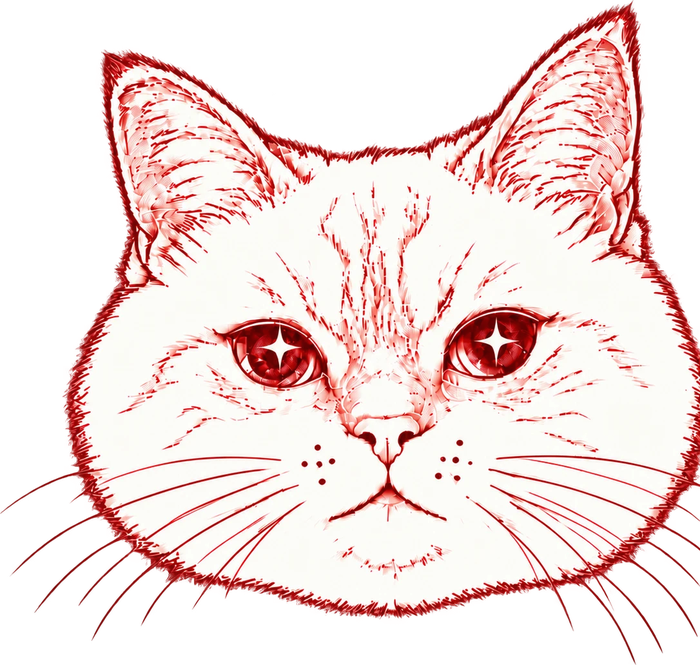
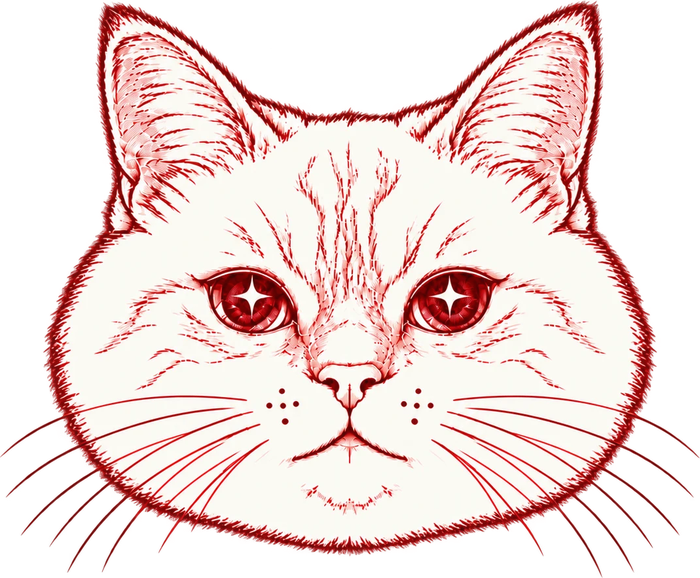
feat: replace white cat art; all decorations share one size

diff --git a/js/screen.js b/js/screen.js
@@ -153,7 +153,7 @@ async function fxIn(back) {
 }
 
 /* ---------- 隨機插圖裝飾：只放在空白紙面，不碰畫框、布幕、名字、QR code ---------- */
-const DECOS = [{ src: 'deco/bow.png', ratio: 700 / 530 }, { src: 'deco/cat.png', ratio: 700 / 665 }, { src: 'deco/cat2.png', ratio: 666 / 700 }];
+const DECOS = [{ src: 'deco/bow.png', ratio: 700 / 530 }, { src: 'deco/cat.png', ratio: 700 / 578 }, { src: 'deco/cat2.png', ratio: 666 / 700 }];
 const rand = (a, b) => a + Math.random() * (b - a);
 const grow = (r, g) => ({ left: r.left - g, right: r.right + g, top: r.top - g, bottom: r.bottom + g });
 const hits = (a, b) => a.left < b.right && a.right > b.left && a.top < b.bottom && a.bottom > b.top;
@@ -175,25 +175,32 @@ function scatterDeco(slot) {
     }
     return true;
   };
-  const placed = [];
-  const picks = [...DECOS].sort(() => Math.random() - 0.5);   // 同一畫面不重複
-  $('deco').innerHTML = [0, 1].map((side) => {
-    const d = picks[side];
-    // 放在畫框左右兩側、跟畫框差不多高的位置；由大到小試，每個大小隨機試 40 個位置
-    for (let h = rand(H * 0.17, H * 0.21); h >= H * 0.08; h *= 0.9) {
-      const w = h * d.ratio, pad = h * 0.08;            // 旋轉後外框會大一點
-      for (let k = 0; k < 40; k++) {
+  const picks = [...DECOS].sort(() => Math.random() - 0.5).slice(0, 2);   // 同一畫面不重複
+
+  // 每張插圖都塞進同樣大小的正方形，看起來一樣大；兩側都放得下的最大尺寸
+  function tryPlace(S) {
+    const placed = [], out = [];
+    for (const [side, d] of picks.entries()) {
+      const w = d.ratio >= 1 ? S : S * d.ratio, h = d.ratio >= 1 ? S / d.ratio : S;
+      const pad = S * 0.08;                              // 旋轉後外框會大一點
+      let ok = false;
+      for (let k = 0; k < 60 && !ok; k++) {
         const x = side === 0 ? rand(0, box.left - w) : rand(box.right, W - w);
         const y = rand(box.top, Math.max(box.top, box.bottom - h));
         const r = { left: x - pad, right: x + w + pad, top: y - pad, bottom: y + h + pad };
-        if (r.top < 0 || r.bottom > H || x < 0 || x + w > W) continue;
+        if (x < 0 || x + w > W || r.top < 0 || r.bottom > H) continue;
         if (blocks.some((b) => hits(r, b)) || placed.some((b) => hits(r, b)) || !clearOfCurtain(r)) continue;
         placed.push(grow(r, gap));
-        return `<img src="${d.src}" alt="" style="left:${x}px;top:${y}px;--h:${h}px;--r:${rand(-14, 14)}deg;--d:${1.2 + side * 0.35}s">`;
+        out.push(`<img src="${d.src}" alt="" style="left:${x}px;top:${y}px;--h:${h}px;--r:${rand(-12, 12)}deg;--d:${1.2 + side * 0.35}s">`);
+        ok = true;
       }
+      if (!ok) return null;
     }
-    return '';   // 找不到空位就不放
-  }).join('');
+    return out.join('');
+  }
+  let html = '';
+  for (let S = H * 0.2; S >= H * 0.08 && !html; S *= 0.92) html = tryPlace(S) || '';
+  $('deco').innerHTML = html;    // 兩側都放不下就都不放
 }
 
 // 視窗大小改變（例如接上投影機）就重新擺插圖
